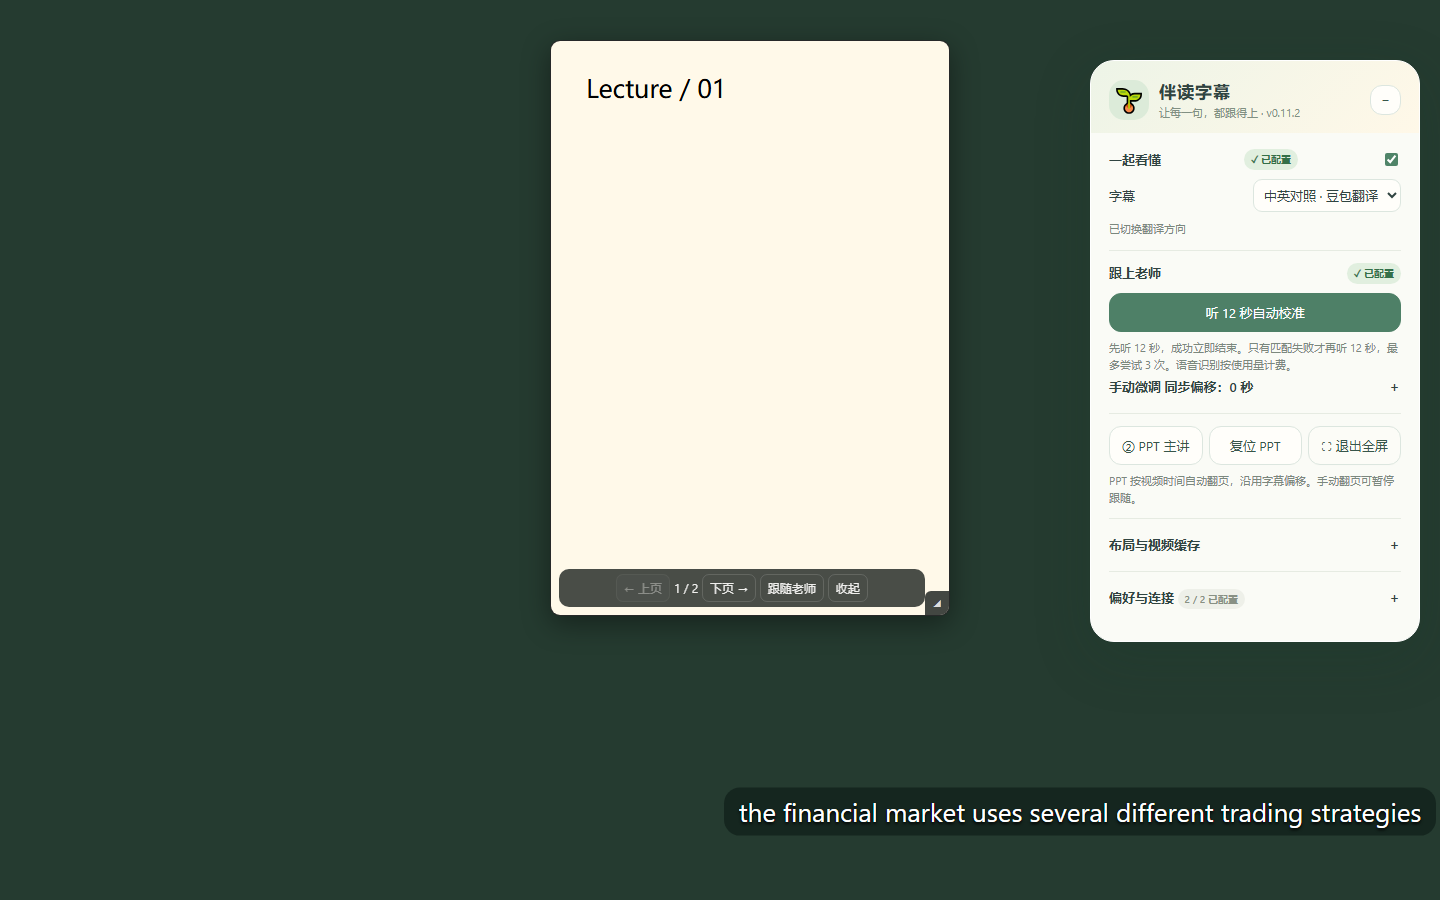
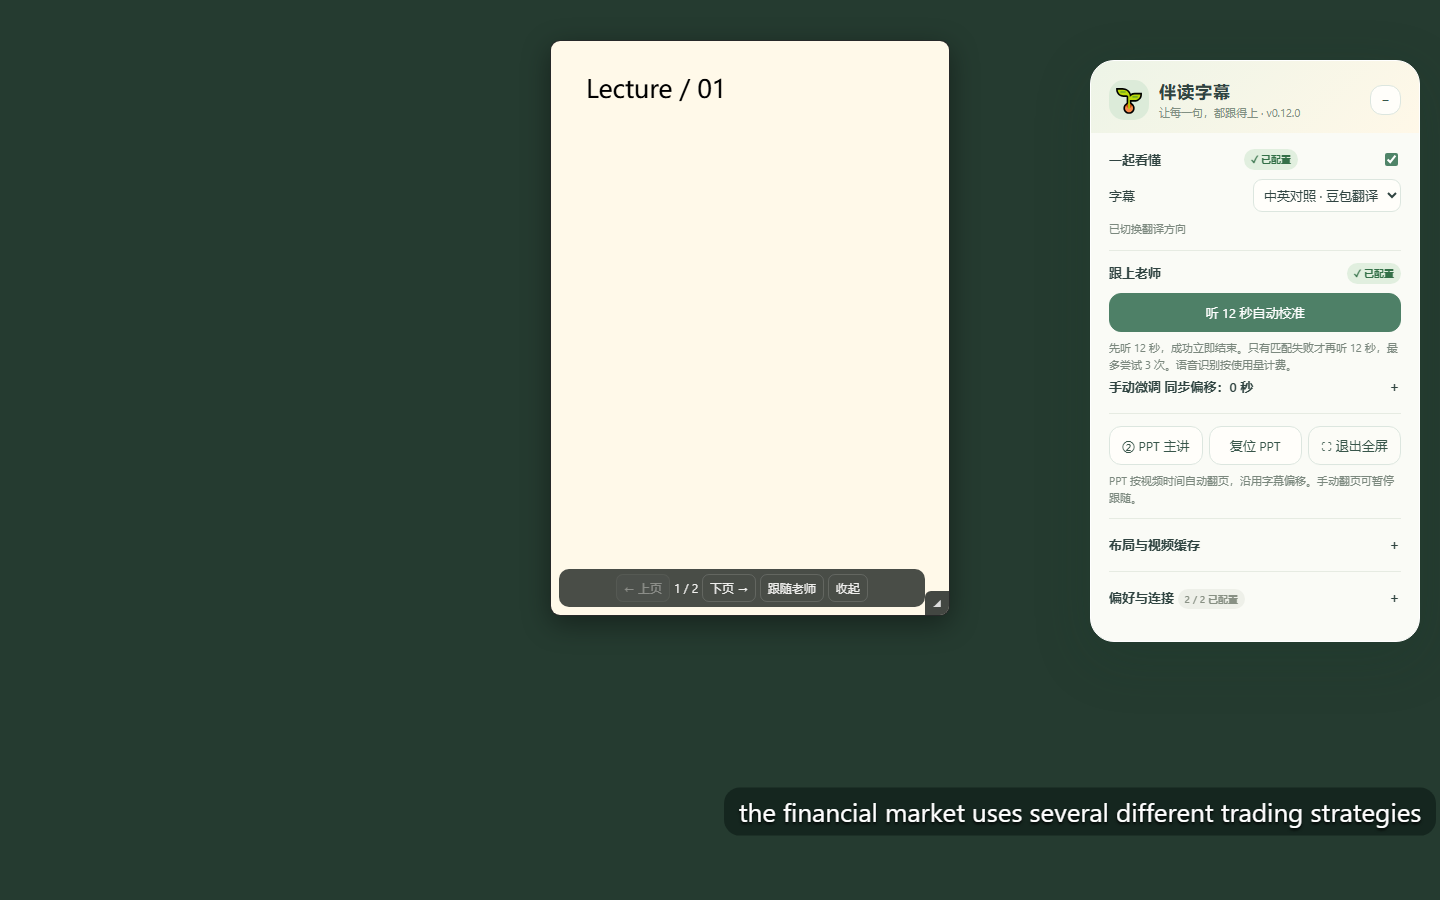
Replace 512 MB cache cap with ranged downloads to browser disk

diff --git a/zhiyun-subtitles.user.js b/zhiyun-subtitles.user.js
@@ -1,7 +1,7 @@
 // ==UserScript==
 // @name         智云课堂同步字幕
 // @namespace    zhiyunzimu.local
-// @version      0.11.2
+// @version      0.12.0
 // @description  将右侧语音识别及平台译文同步显示在视频底部，支持字幕导出。
 // @match        https://interactivemeta.cmc.zju.edu.cn/*
 // @grant        GM_xmlhttpRequest
@@ -20,7 +20,7 @@
 (function () {
   'use strict';
   const ARK_URL = 'https://ark.cn-beijing.volces.com/api/v3/responses';
-  function downloadVideo(request,url,{signal,limit,onProgress=()=>{}}) {
+  function downloadVideo(request,url,{signal,limit,range=null,validator=null,onProgress=()=>{}}) {
     return new Promise((resolve,reject)=>{
       const parsed=new URL(url);
       if(!['video.cmc.zju.edu.cn','vod.cmc.zju.edu.cn','interactivemeta.cmc.zju.edu.cn'].includes(parsed.hostname) || !['https:','http:'].includes(parsed.protocol)) {
@@ -32,23 +32,38 @@
       if(signal?.aborted){abort();return;}
       signal?.addEventListener('abort',abort,{once:true});
       try {
-        handle=request({method:'GET',url,responseType:'blob',timeout:1800000,
+        handle=request({method:'GET',url,responseType:'blob',timeout:1800000,...(range?{headers:{Range:`bytes=${range.start}-${range.end}`,...(validator?{'If-Range':validator}:{})}}:{}),
           onprogress:event=>{
-            if(event.loaded>limit || event.total>limit){finish(new Error('视频超过缓存上限 512 MB'));handle?.abort();return;}
+            if(event.loaded>limit || event.total>limit){finish(new Error('服务器返回的数据超过单块上限；可能不支持分块下载'));handle?.abort();return;}
             onProgress(event.loaded || 0,event.lengthComputable?event.total:0);
           },
           onload:async response=>{
             if(settled)return;
-            if(response.status!==200){finish(new Error(response.status===401 || response.status===403?'视频访问被拒绝（HTTP '+response.status+'），请重新登录课程后重试':'下载失败：HTTP '+response.status));return;}
+            if(response.status!==200 && !(range && response.status===206)){finish(new Error(response.status===401 || response.status===403?'视频访问被拒绝（HTTP '+response.status+'），请重新登录课程后重试':'下载失败：HTTP '+response.status));return;}
             const blob=response.response;
             if(!blob || typeof blob.slice!=='function' || !blob.size){finish(new Error('服务器未返回有效视频文件'));return;}
-            if(blob.size>limit){finish(new Error('视频超过缓存上限 512 MB'));return;}
+            if(blob.size>limit){finish(new Error('服务器返回的数据超过单块上限；可能不支持分块下载'));return;}
             try {
+              if(!range || range.start===0) {
               const bytes=new Uint8Array(await blob.slice(0,64).arrayBuffer());
               const mp4=String.fromCharCode(...bytes.slice(4,8))==='ftyp';
               const webm=bytes[0]===0x1a && bytes[1]===0x45 && bytes[2]===0xdf && bytes[3]===0xa3;
               if(!mp4 && !webm) throw new Error('返回内容不是 MP4/WebM，可能是登录页或分片清单；未写入缓存');
-              finish(null,blob);
+              }
+              if(range) {
+                const header=name=>String(response.responseHeaders || '').match(new RegExp('^'+name+':\\s*(.+)$','im'))?.[1]?.trim();
+                if(response.status===200) {
+                  if(range.start!==0) throw new Error('视频内容已改变或服务器忽略 Range，请重新缓存');
+                  finish(null,{blob,total:blob.size,end:blob.size-1,validator:header('etag') || header('last-modified')});return;
+                }
+                const match=header('content-range')?.match(/^bytes (\d+)-(\d+)\/(\d+)$/);
+                if(!match) throw new Error('分块响应缺少有效 Content-Range');
+                const [start,end,total]=match.slice(1).map(Number);
+                if(![start,end,total].every(Number.isSafeInteger) || start!==range.start || end>range.end || end<start || end>=total || blob.size!==end-start+1) throw new Error('分块范围或长度不一致，已停止缓存');
+                const current=header('etag') || header('last-modified');
+                if(validator && current && validator!==current) throw new Error('缓存期间视频版本改变，请重新缓存');
+                finish(null,{blob,total,end,validator:current});
+              } else finish(null,blob);
             }catch(error){finish(error);}
           },
           onerror:()=>finish(new Error('油猴下载失败：请允许连接 '+parsed.hostname+'，并检查网络或登录状态')),
@@ -57,6 +72,18 @@
         });
       }catch(error){finish(new Error('无法启动油猴跨域下载：'+error.message));}
     });
+  }
+  async function downloadInChunks(request,url,{signal,write,checkSpace=async()=>{},onProgress=()=>{},chunkSize=8*1024*1024}) {
+    let offset=0,total=null,validator=null;
+    do {
+      if(signal?.aborted) throw new Error('缓存已取消');
+      const part=await downloadVideo(request,url,{signal,limit:chunkSize,range:{start:offset,end:offset+chunkSize-1},validator,onProgress:(loaded)=>onProgress(offset+loaded,total)});
+      if(total===null) {total=part.total;validator=part.validator;await checkSpace(total);}
+      else if(total!==part.total) throw new Error('视频总大小发生变化，请重新缓存');
+      if(signal?.aborted) throw new Error('缓存已取消');
+      await write(part.blob);offset=part.end+1;onProgress(offset,total);
+    }while(offset<total);
+    return total;
   }
   function wavBytes(samples, rate = 16000) {
     const buffer = new ArrayBuffer(44 + samples.length * 2), view = new DataView(buffer);
@@ -249,7 +276,7 @@
       maxHeight: below ? Math.max(24, band - 48) : rect.height * 0.55 };
   }
   if (typeof module !== 'undefined' && module.exports) {
-    module.exports = { parseTime, timeline, activeCue, stamp, srt, translationBody, translationResult, createTranslator, subtitleTime, captionLayout, wavBytes, matchSpeech, speechResult, recognizeStandard, courseIdentity, slideTime, slideAt, isTargetLanguage, downloadVideo };
+    module.exports = { parseTime, timeline, activeCue, stamp, srt, translationBody, translationResult, createTranslator, subtitleTime, captionLayout, wavBytes, matchSpeech, speechResult, recognizeStandard, courseIdentity, slideTime, slideAt, isTargetLanguage, downloadVideo, downloadInChunks };
     return;
   }
   if (document.getElementById('zy-subtitle-host')) return;
@@ -310,7 +337,7 @@
     <button class="slide-edge" data-edge="left" aria-label="调整 PPT 左边缘"></button><button class="slide-edge" data-edge="right" aria-label="调整 PPT 右边缘"></button><button class="slide-edge" data-edge="top" aria-label="调整 PPT 上边缘"></button><button class="slide-edge" data-edge="bottom" aria-label="调整 PPT 下边缘"></button>
   </section>
   <section id="panel" aria-label="智云字幕设置">
-    <header id="panel-head"><span class="mascot">🌱</span><div><h3>伴读字幕</h3><span class="subtitle">让每一句，都跟得上 · v0.11.2</span></div><button id="collapse" aria-label="收起字幕设置">−</button></header>
+    <header id="panel-head"><span class="mascot">🌱</span><div><h3>伴读字幕</h3><span class="subtitle">让每一句，都跟得上 · v0.12.0</span></div><button id="collapse" aria-label="收起字幕设置">−</button></header>
     <div id="panel-body">
     <div class="section"><div class="section-title">一起看懂 <span id="translation-ready" class="badge"></span><input id="enabled" aria-label="显示字幕" type="checkbox" checked></div>
     <label>字幕<select id="mode"><option value="original">仅原文</option><option value="both">中英对照 · 豆包翻译</option></select></label>
@@ -330,7 +357,7 @@
     <label>自定义字幕位置<input id="caption-custom" type="checkbox"></label><label>字幕左 / 下沿<input id="caption-x" type="number" value="20"><input id="caption-y" type="number" value="700"></label><label>字幕宽度<input id="caption-w" type="number" value="900"></label></div>
     <button id="cache-download">缓存当前视频</button><button id="cache-play">播放已缓存视频</button><button id="cache-online">恢复在线视频</button><button id="cache-clear">清除此课缓存</button>
     <button id="cache-diagnose">查看缓存诊断</button><pre id="cache-diagnostic" hidden style="white-space:pre-wrap;font-size:11px"></pre><label>导入本地视频<input id="cache-file" type="file" accept="video/mp4,video/webm"></label>
-    <p id="cache-status">使用油猴下载智云课堂 MP4/WebM；首次请允许连接视频域名。单个最大 512 MB，缓存保存在此浏览器。</p>
+    <p id="cache-status">使用油猴下载智云课堂 MP4/WebM；首次请允许连接视频域名。每块 8 MB 写入浏览器磁盘，不再限制 512 MB；可缓存大小取决于可用空间及服务器 Range 支持。</p>
     </details>
     <details class="section"><summary>偏好与连接 <span id="key-summary" class="badge"></span></summary>
     <label>翻译连接 <span id="translation-badge" class="badge"></span></label><button id="configure-key">设置翻译 Key</button>
@@ -717,7 +744,7 @@
     if(showSlides()) { event.preventDefault(); event.stopImmediatePropagation(); if(image) {slideFollowing=false;slideIndex=Math.max(0,imagesIndex(image));} renderSlide(); }
   },true);
   let cacheAbort=null, localPlayback=null;
-  const CACHE_LIMIT=512*1024*1024;
+
   function cacheStore(mode,action) {
     return new Promise((resolve,reject)=>{
       const open=indexedDB.open('zhiyun-video-cache',1);
@@ -730,9 +757,60 @@
       };
     });
   }
-  async function saveVideo(blob,key) {
-    if(!blob.size || blob.size>CACHE_LIMIT) throw new Error('单个视频需小于 512 MB；大文件请使用本地播放器');
-    await cacheStore('readwrite',store=>store.put(blob,key));
+  async function checkCacheSpace(bytes) {
+    const estimate=await navigator.storage?.estimate?.();
+    if(estimate?.quota && bytes>Math.max(0,estimate.quota-(estimate.usage || 0)-32*1024*1024)) throw new Error('浏览器可用空间不足，需要 '+(bytes/1073741824).toFixed(2)+' GB；请清理缓存后重试');
+  }
+  async function cacheDirectory() {
+    if(!navigator.storage?.getDirectory) throw new Error('此浏览器不支持磁盘分块缓存，请使用新版 Chrome / Edge');
+    return (await navigator.storage.getDirectory()).getDirectoryHandle('zhiyun-videos',{create:true});
+  }
+  async function removeCacheFile(record) {
+    if(record?.kind==='opfs') {try{await (await cacheDirectory()).removeEntry(record.name);}catch(error){if(error.name!=='NotFoundError')throw error;}}
+  }
+  async function storeLargeVideo(key,producer,signal) {
+    if(navigator.locks) return navigator.locks.request('zhiyun-cache:'+key,{ifAvailable:true},lock=>{
+      if(!lock) throw new Error('另一个标签页正在缓存此课程，请等待完成');
+      return storeLargeVideoLocked(key,producer,signal);
+    });
+    return storeLargeVideoLocked(key,producer,signal);
+  }
+  async function storeLargeVideoLocked(key,producer,signal) {
+    const dir=await cacheDirectory();
+    // A pending entry lets the next attempt reclaim an interrupted tab's partial file.
+    await removeCacheFile(await cacheStore('readonly',s=>s.get(key+':pending')));
+    const record={kind:'opfs',name:crypto.randomUUID()+'.video'};
+    await cacheStore('readwrite',s=>s.put(record,key+':pending'));
+    let writer,committed=false;
+    try {
+      const file=await dir.getFileHandle(record.name,{create:true});writer=await file.createWritable();
+      record.size=await producer(async blob=>{
+        if(!record.type) {const bytes=new Uint8Array(await blob.slice(0,8).arrayBuffer());record.type=bytes[0]===0x1a?'video/webm':'video/mp4';}
+        await writer.write(blob);
+      });
+      if(signal?.aborted) throw new Error('缓存已取消');
+      await writer.close();writer=null;
+      if(signal?.aborted) throw new Error('缓存已取消');
+      const old=await cacheStore('readonly',s=>s.get(key));
+      await cacheStore('readwrite',s=>s.put(record,key));committed=true;
+      try{await removeCacheFile(old);}catch{} // A cleanup failure must not discard a completed new cache.
+    }finally{
+      if(writer) await writer.abort().catch(()=>{});
+      if(!committed) await removeCacheFile(record);
+      await cacheStore('readwrite',s=>s.delete(key+':pending'));
+    }
+  }
+  async function saveVideo(blob,key,signal) {
+    if(!blob.size) throw new Error('视频文件为空');
+    await checkCacheSpace(blob.size);
+    await storeLargeVideo(key,async write=>{for(let offset=0;offset<blob.size;offset+=8*1024*1024){if(signal?.aborted)throw new Error("缓存已取消");await write(blob.slice(offset,offset+8*1024*1024));}return blob.size;},signal);
+  }
+  async function cachedVideo(key) {
+    const record=await cacheStore('readonly',s=>s.get(key));
+    if(record?.kind!=='opfs') return record; // Read caches created by older versions as well.
+    const file=await (await (await cacheDirectory()).getFileHandle(record.name)).getFile();
+    if(file.size!==record.size) throw new Error('缓存文件不完整，请重新缓存');
+    return file.slice(0,file.size,record.type || 'video/mp4');
   }
   function restoreOnline() {
     if(!localPlayback) return;
@@ -751,14 +829,9 @@
     const controller=new AbortController();cacheAbort=controller;$('cache-download').textContent='取消缓存';
     try {
       $('cache-status').textContent='正在连接视频服务器；如果油猴询问，请允许连接视频域名…';
-      const blob=await downloadVideo(GM_xmlhttpRequest,src,{signal:controller.signal,limit:CACHE_LIMIT,onProgress:(size,total)=>{
-        $('cache-status').textContent=`正在缓存 ${(size/1048576).toFixed(1)} MB${total?' / '+(total/1048576).toFixed(1)+' MB':''}`;
-      }});
-      if(controller.signal.aborted || key!==courseIdentity(location.hash)) return;
-      const estimate=await navigator.storage?.estimate?.();
-      if(estimate?.quota && blob.size>estimate.quota-(estimate.usage || 0)) throw new Error('浏览器可用空间不足，请清理站点缓存后重试');
-      $('cache-status').textContent='下载完成，正在保存到浏览器…';
-      await saveVideo(blob,key);
+      await storeLargeVideo(key,write=>downloadInChunks(GM_xmlhttpRequest,src,{signal:controller.signal,write,checkSpace:checkCacheSpace,onProgress:(size,total)=>{
+        $('cache-status').textContent=`正在分块缓存 ${(size/1048576).toFixed(1)} MB${total?' / '+(total/1048576).toFixed(1)+' MB':''}`;
+      }}),controller.signal);
       if(key===courseIdentity(location.hash)) $('cache-status').textContent='缓存完成，可点击「播放已缓存视频」。刷新后仍保留。';
     } catch(error) {if(key===courseIdentity(location.hash)) $('cache-status').textContent=controller.signal.aborted?'缓存已取消':error.message;}
     finally{cacheAbort=null;$('cache-download').textContent='缓存当前视频';}
@@ -767,19 +840,21 @@
     const source=mainVideo?.currentSrc || mainVideo?.src || '';let origin='无视频源',kind='未知';
     try{const url=new URL(source);origin=url.origin;kind=url.protocol==='blob:'?'blob / 分片播放':url.pathname.match(/\.(mp4|webm|m3u8|mpd)$/i)?.[1] || '无扩展名';}catch{}
     $('cache-diagnostic').hidden=false;
-    $('cache-diagnostic').textContent=`版本：0.11.2\n来源域名：${origin}\n格式：${kind}\n状态：${$('cache-status').textContent}\n（不包含视频完整地址、登录参数或 API Key）`;
+    $('cache-diagnostic').textContent=`版本：0.12.0\n来源域名：${origin}\n格式：${kind}\n状态：${$('cache-status').textContent}\n（不包含视频完整地址、登录参数或 API Key）`;
   };
   $('cache-file').onchange=async()=>{
     const file=$('cache-file').files[0],key=courseIdentity(location.hash);if(!file) return;
-    try {if(!/\.(mp4|webm)$/i.test(file.name)) throw new Error('请选择 MP4 或 WebM 视频');await saveVideo(file,key);if(key===courseIdentity(location.hash)) $('cache-status').textContent='导入完成，可播放已缓存视频。';}
+    if(cacheAbort){$('cache-status').textContent='请等待当前缓存完成或取消后再导入';$('cache-file').value='';return;}
+    const controller=new AbortController();cacheAbort=controller;$('cache-download').textContent='取消缓存';
+    try {if(!/\.(mp4|webm)$/i.test(file.name)) throw new Error('请选择 MP4 或 WebM 视频');await saveVideo(file,key,controller.signal);if(key===courseIdentity(location.hash)) $('cache-status').textContent='导入完成，可播放已缓存视频。';}
     catch(error){$('cache-status').textContent=error.message;}
-    finally{$('cache-file').value='';}
+    finally{$('cache-file').value='';cacheAbort=null;$('cache-download').textContent='缓存当前视频';}
   };
   $('cache-play').onclick=async()=>{
     const key=courseIdentity(location.hash),video=mainVideo;
     try {
       if(!video) throw new Error('请先打开课程视频');
-      const blob=await cacheStore('readonly',store=>store.get(key));
+      const blob=await cachedVideo(key);
       if(key!==courseIdentity(location.hash)) return;
       if(!blob) throw new Error('本课程还没有缓存');
       const time=video.currentTime,rate=video.playbackRate;
@@ -791,7 +866,7 @@
     }catch(error){$('cache-status').textContent=error.message;}
   };
   $('cache-online').onclick=()=>{cancelAlignment?.();restoreOnline();};
-  $('cache-clear').onclick=async()=>{try{cacheAbort?.abort();restoreOnline();await cacheStore('readwrite',store=>store.delete(courseIdentity(location.hash)));$('cache-status').textContent='本课程缓存已清除';}catch(error){$('cache-status').textContent=error.message;}};
+  $('cache-clear').onclick=async()=>{try{if(cacheAbort){cacheAbort.abort();$('cache-status').textContent='正在取消下载，结束后再次点击清除';return;}restoreOnline();const key=courseIdentity(location.hash);await removeCacheFile(await cacheStore('readonly',s=>s.get(key)));await removeCacheFile(await cacheStore('readonly',s=>s.get(key+':pending')));await cacheStore('readwrite',s=>s.delete(key+':pending'));await cacheStore('readwrite',store=>store.delete(key));$('cache-status').textContent='本课程缓存已清除';}catch(error){$('cache-status').textContent=error.message;}};
   let apiKey = GM_getValue('ark-api-key', '');
   function arkRequest(text, source, target) {
     let handle;

diff --git a/README.md b/README.md
@@ -4,11 +4,19 @@
 
 ![界面预览（模拟课堂）](ui-preview.png)
 
+## v0.12.0：移除 512 MB 总大小上限
+
+视频改用 HTTP Range 每次下载 **8 MB**，顺序写入浏览器私有文件系统（OPFS），缓存播放使用磁盘文件 Blob，不将整课读入 JS 数组。完成后才替换旧缓存；取消/失败会清理临时文件。中途关闭标签页后，下次缓存同一课程会清理未完成文件并重新下载，目前不支持断点续传。
+
+开始时根据视频总大小检查浏览器可用空间（预留 32 MB），空间不足明确报错。需新版 Chrome / Edge 等支持 OPFS 的浏览器；服务器必须支持 Range。若服务器忽略 Range，大响应会中止并提示，不会退回整课内存下载。每块校验 Content-Range、大小及可用的 ETag / Last-Modified。旧版小视频缓存仍可读取。
+
+验证：30 项单元测试，包括模拟 640 MB / 80 块下载、范围错误、文件版本/长度变化、空间不足和取消；浏览器测试验证真实 OPFS 写入、读取、切换来源和清除。真实课堂的大文件端到端下载仍待实际验证。
+
 ## v0.11.2：拖动视频与字幕，授权 VOD
 
 「布局与视频缓存 → 拖动视频 / 字幕」进入调整模式。拖绿色框移动视频或字幕，拖右下角缩放视频、调整字幕宽度与字号；点击「完成调整」退出。字幕有内容显示时才出现其拖动框。退出后字幕继续穿透鼠标，不挡倍速按钮；原有数字输入仍保留。
 
-已将用户确认的 `vod.cmc.zju.edu.cn` 加入油猴元数据及下载域名校验。更新必须完整替换脚本（包含顶部权限），刷新课程后允许油猴连接该域名。仍保留 512 MB 上限及 MP4/WebM 格式限制。
+已将用户确认的 `vod.cmc.zju.edu.cn` 加入油猴元数据及下载域名校验。更新必须完整替换脚本（包含顶部权限），刷新课程后允许油猴连接该域名。该历史版本保留 512 MB 上限；v0.12.0 已移除此限制，仍限 MP4/WebM 文件。
 
 27 项单元测试和浏览器模拟测试覆盖 VOD 域名下载、其他域名拒绝、视频字幕拖动及退出调整模式。当前课堂真实下载尚未端到端验证。
 
@@ -30,7 +38,7 @@
 
 在「布局与视频缓存」点击「缓存当前视频」，完整下载到浏览器 IndexedDB 后，再点击「播放已缓存视频」。也可导入平台已经下载的 MP4/WebM。缓存播放使用同一个网页视频元素，尝试保留当前位置与倍速；有「恢复在线视频」及「清除此课缓存」。
 
-- 当前只支持地址明确为 MP4/WebM、位于已授权域名且当前登录可访问的文件，单个最多 **512 MB**。浏览器存储空间不足时会报错。
+- 当前只支持地址明确为 MP4/WebM、位于已授权域名且当前登录可访问的文件，总大小由浏览器剩余存储空间决定。浏览器存储空间不足时会报错。
 - **不支持直接缓存 HLS/DASH 分片流、MSE 的 blob 地址或加密的资源。** 油猴可解决已授权视频域名的网页跨域读取问题，但不绕过服务器鉴权；不支持的来源请提供缓存诊断。
 - 缓存完整下载前不会加速当前播放。需要保留课程页面以使用字幕和 PPT；视频数据本地播放不等于整站离线可用。
 - 缓存在此浏览器的课程网站存储中，浏览器清理站点数据可能将其删除。不会上传本地导入的视频。
@@ -50,7 +58,7 @@
 
 1. 安装 Tampermonkey，并在浏览器扩展设置中允许用户脚本运行。
 2. 打开 [脚本安装地址](https://raw.githubusercontent.com/FILAgiao/zhiyun-subtitles/main/zhiyun-subtitles.user.js)，按提示安装；也可在油猴中新建脚本，完整粘贴本仓库 JS 内容后保存。
-3. 刷新智云课堂回放，打开右侧「语音识别」。面板版本应为 **v0.11.2**。
+3. 刷新智云课堂回放，打开右侧「语音识别」。面板版本应为 **v0.12.0**。
 4. 「偏好与连接」可分别填写翻译 Key 和语音 Key。绿色勾表示已保存，不代表接口权限已经验证。
 
 仅使用字幕显示、手动偏移或 PPT 悬浮窗时，无需 API Key。
